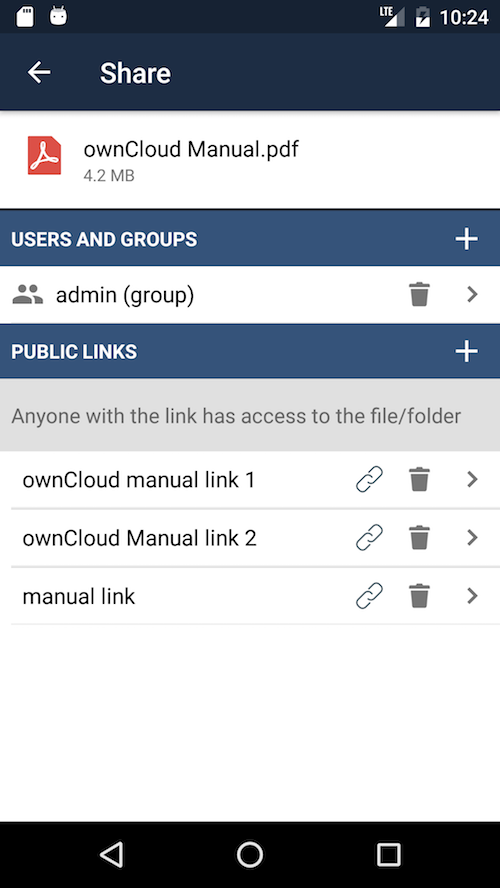
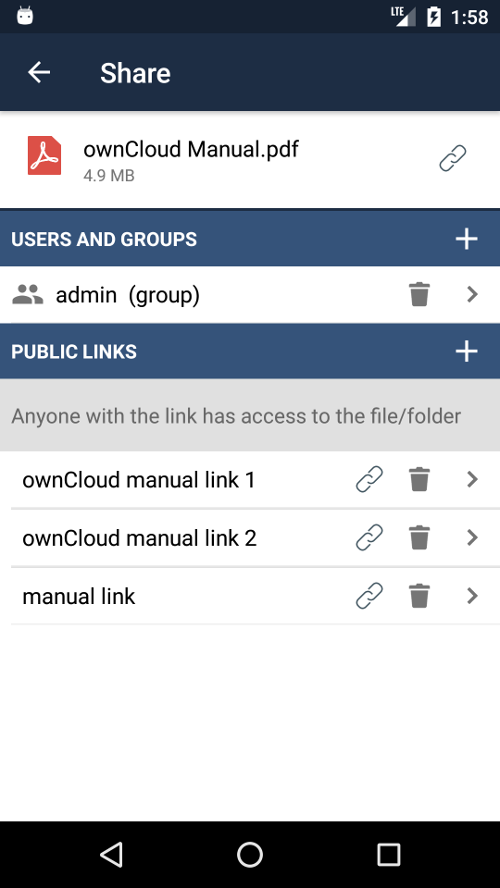
Include private link info

diff --git a/user_manual/android_app.rst b/user_manual/android_app.rst
@@ -157,7 +157,7 @@ The ones that don't fit in the top bar, appear in the list of options when press
 Sharing Files
 ~~~~~~~~~~~~~
 
-You can share with other ownCloud users and groups, and create public share links. 
+You can share with other ownCloud users and groups, and create public or private share links.
 
 .. note:: Multiple public links per/file is only available with ownCloud X.
 
@@ -172,11 +172,16 @@ The dialog which appears shows a list of users and groups with whom the file is 
    :alt: File Shares.
 
 From here you can:
-
+- Share one link to the file with users of the same ownCloud server
 - Share the file with one or more users and groups
 - Share one or more links to the file via a range of options
 - Enable password protection
 - Set a share expiration date
+
+To create a private link, click the link icon on the right of the file name.
+
+.. NOTE::
+   Private link is available from ownCloud X.
 
 To share the file with a new user or group, click the plus sign next to *"Users and Groups"*, where you will be able to find and add them to the share list.
 After a user or group has been added, you can adjust the editing and on-sharing options available for them.
